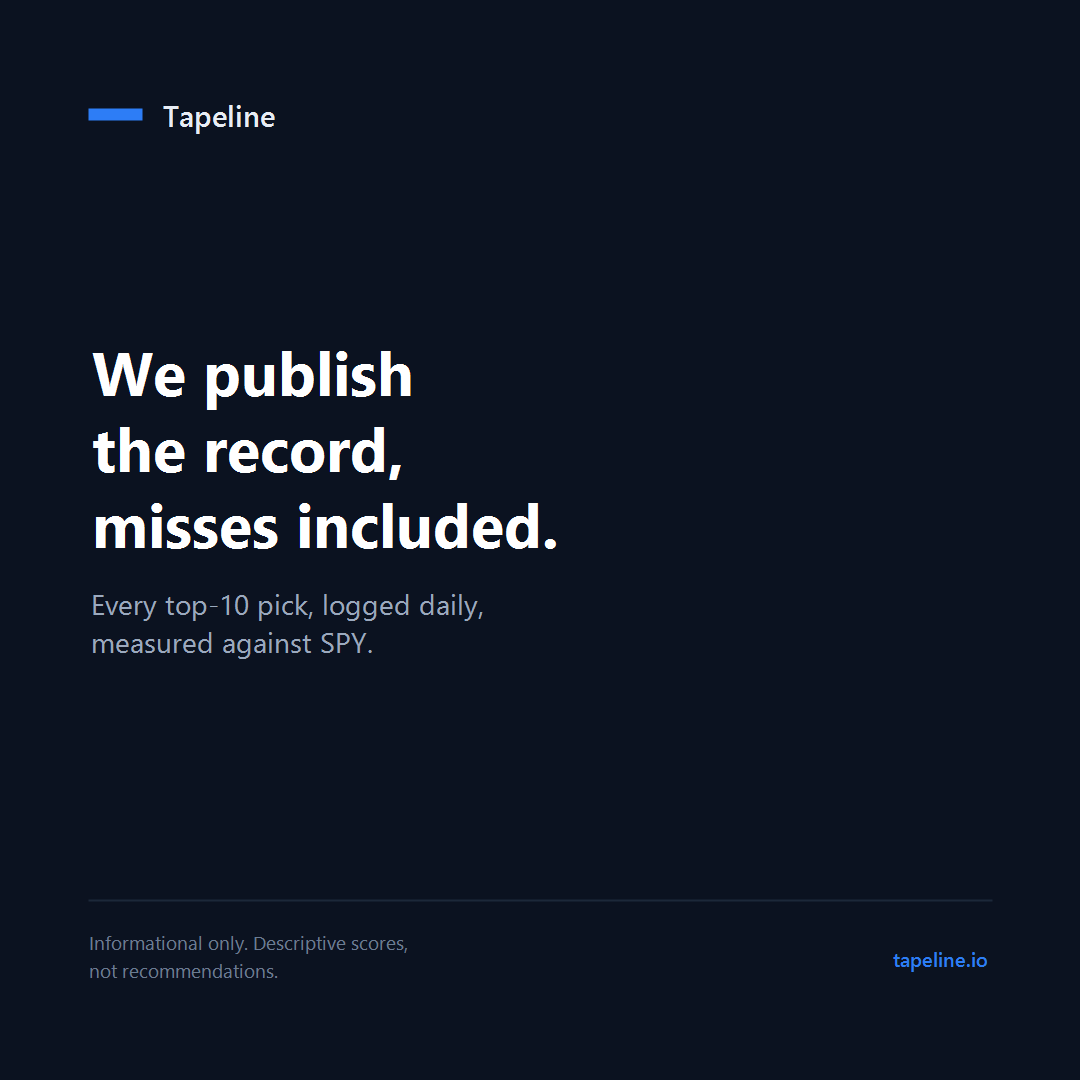
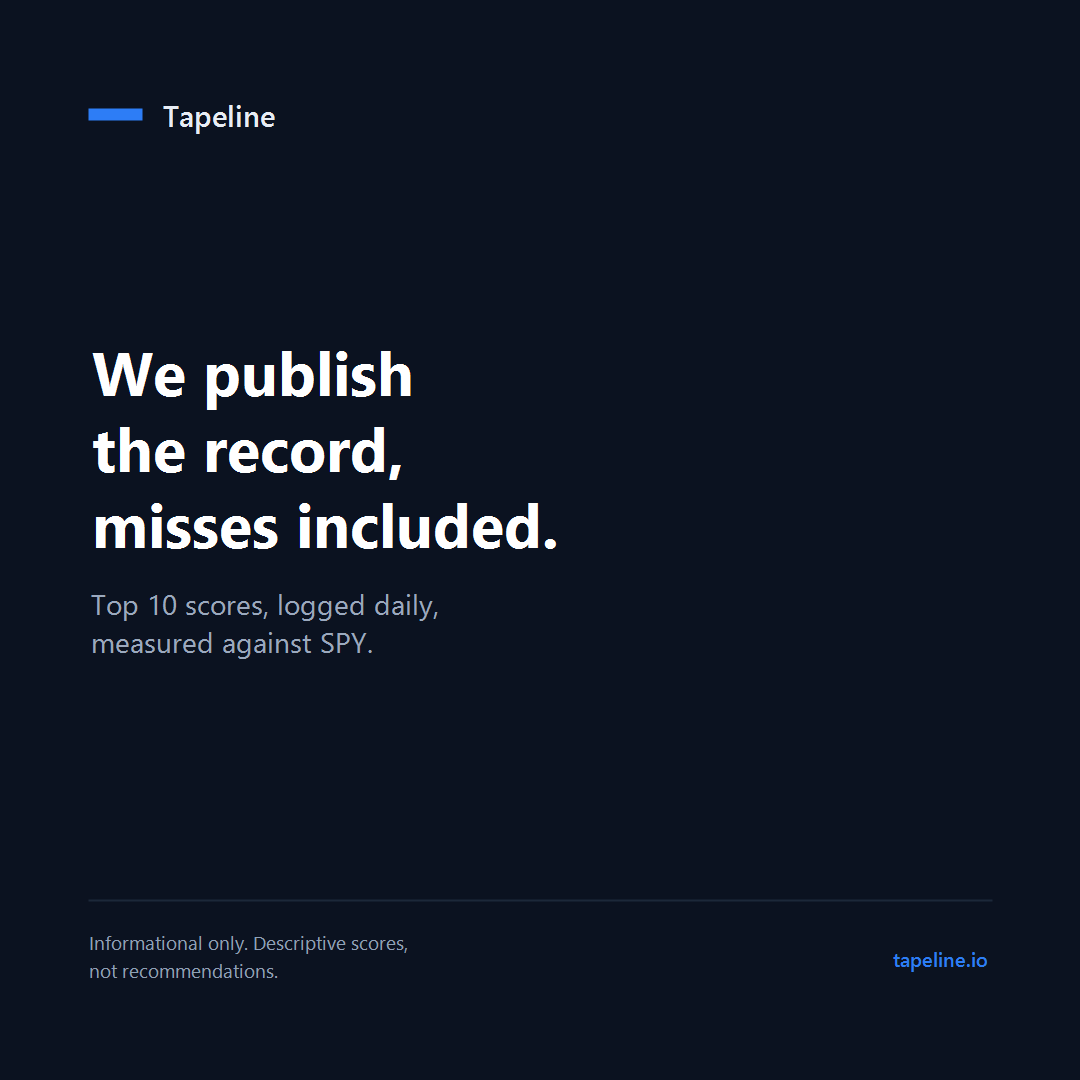
fix(ads): a banned token was live in concept C; close the two gaps that allowed it
A 99-agent audit of the live burst found that concept C's artwork read "Every
top-10 pick, logged daily, measured against SPY." META_SAAS_ADS_PLAYBOOK.md bans
that token outright: Meta's finance classifier pattern-matches "picks" to
stock-tip services, so it is "score(s)" everywhere. It ran for three days on a
Financial Products and Services account that had just come off a security
checkpoint.

C was also the lowest-delivery ad by a wide margin -- A$1.06 and 60 impressions,
CPM A$17.67 against A$85-110 on its siblings. That pattern is consistent with
classifier suppression rather than message failure, which means C's arm was never
a message read at all. C is paused in Ads Manager, the string is now "Top 10
scores, logged daily, measured against SPY.", and all nine assets are regenerated.

TWO GAPS LET IT THROUGH, AND BOTH ARE NOW CLOSED.

First, the linter never had the rule -- the ban lived only in playbook prose. I
verified this rather than assumed it by running the linter on the exact offending
string: zero findings. So "the ad copy passed the linter" was true and beside the
point.

Second, the words burned into the images were never linted at all. Only primary
text, headline and description went through it. The subtitle strings live in the
PowerShell generators, and CI's include globs exclude docs/.

Rule 10 ad-trading-vocabulary catches picks, calls, stock tips and hot stocks.
It is PATH-SCOPED to the ad-creative directory on purpose: "picks" is legitimate
[…]

Changed region(s): [[0.0917, 0.8556, 0.3667, 0.9167], [0.0611, 0.55, 0.4583, 0.5806]]

diff --git a/docs/META_BURST_BUILD.md b/docs/META_BURST_BUILD.md
@@ -623,3 +623,139 @@ deployed** — the event fires on a real signup, not on page load.
 **Still founder-only, and now genuinely the last thing:** registering a Meta App and generating a
 System User token, then `.\scripts\meta-capi-golive.ps1 -TestEventCode <CODE>` (after
 `fly auth login`). Claude does not create developer apps or generate/handle access tokens.
+
+---
+
+## 16. Deep-dive audit — 2026-08-29
+
+A 99-agent workflow audited the live burst against `META_SAAS_ADS_PLAYBOOK.md`,
+`PAID_ADS_METRICS_BIBLE.md` and this file, then researched Meta advertising for retail-trading
+SaaS under Special Ad Category. 92 findings were adversarially verified against Tapeline's
+compliance constraints; **25 survived, 67 were rejected** — several of the rejected ones were
+claims made earlier in the same session.
+
+### A hard-banned token was live, and is now fixed
+
+Concept C's artwork read **"Every top-10 pick, logged daily, measured against SPY."**
+`META_SAAS_ADS_PLAYBOOK.md` bans that token explicitly: *"no 'picks' token in ad copy — Meta's
+finance classifier pattern-matches it to stock-tip services, so it is 'score(s)' everywhere."*
+It ran for three days on an FPS account that had just come off a security checkpoint.
+
+C was also the lowest-delivery ad by a wide margin (A$1.06 / 60 impressions, CPM A$17.67 against
+A$85–110 on its siblings) — consistent with **classifier suppression rather than message failure**,
+which means C's arm was never a message read at all.
+
+**Actions taken:** ad C paused in Ads Manager; the string changed to *"Top 10 scores, logged daily,
+measured against SPY."* in all three generators; all nine assets regenerated.
+
+### How it got through — two gaps, both now closed
+
+1. **The linter never had the rule.** The ban lived only in playbook prose. Verified by running
+   the linter on the exact offending string: 0 findings. So "the ad copy passed the linter" was
+   true and beside the point.
+2. **The on-image words were never linted at all.** Only primary text, headline and description
+   went through it; the subtitle strings live in the PowerShell generators, and CI's include globs
+   exclude `docs/`.
+
+Rule 10 `ad-trading-vocabulary` now catches `picks`, `calls`, `stock tips`, `hot stocks` — and is
+**path-scoped to the ad-creative directory**, because "picks" is legitimate product vocabulary
+elsewhere (`/daily-picks` is a real public route, and the word appears across the scanner,
+watchlist and about pages). A repo-wide ban would be wrong and would fail CI everywhere.
+
+### A reproducibility bug in the committed generators
+
+`$out` was a hardcoded machine-specific scratchpad path, so regeneration silently wrote somewhere
+else and the committed PNGs went stale while the source looked correct. Caught only because a
+regenerated image still showed the old text. Now `$out = $PSScriptRoot`.
+
+Also fixed while in there: the footer ran ~4.35:1 contrast on the navy (under WCAG AA 4.5:1) and is
+now `#8FA0B6`; and on the 9:16 assets the compliance line sat inside the Stories bottom safe-zone
+exclusion, where platform UI can overlay it — moved up ~130px.
+
+### Corrections to claims made earlier in this session
+
+- **"Delivery is at 39% of budget"** — the denominator counted review days as delivery days.
+  Recomputed on actual delivery days it is **~59–78%**. Underdelivery is real but materially less
+  severe than was reported.
+- **"Meta has picked a favourite (B)"** — spend share is not a performance metric. No CTR was
+  cited, and the ranking **inverts by measure**: B/A/C by dollars, B/C/A by impressions. The
+  playbook predicted concentration in advance and said *record it, don't rebalance*.
+- **The A$78 blended CPM is not diagnostic** at 376 impressions (minimum readable sample
+  ~5,000–10,000; per-ad CPMs span 6x; the applicable finance median is US$28.44, so ~1.8x not 2–3x).
+
+### The structural finding: this ad set cannot exit learning
+
+Smart bidding wants ~50 conversions per ad set per week. At A$25/day that is **arithmetically
+unreachable** — a genuinely registration-optimised flight needs roughly **A$107–286/day**, which at
+0 payers and ~4x over the CAC ceiling is not defensible spend. This is not a patience problem and
+will not resolve by waiting.
+
+Consequences to accept now, before the verdict date, rather than rationalise later:
+
+- **The three-way ranking — the burst's sole pre-registered deliverable — will not be produced.**
+  A and C will not clear the per-ad evaluation floor under any plausible pacing. At verdict time
+  this reads *"the instrument did not run"*, **not** *"B beat A and C"*.
+- **Kill criterion 3 (cost per registration after 100+ clicks) will likely never become
+  evaluable.** Report it as *insufficient data*, not *passed*. What stays enforceable is the A$350
+  cap and the structural stop.
+
+**Confirmed 29 Aug:** the Results column reads `—` for all three ads. `CompleteRegistration` has
+never reached Meta. Every impression bought while that is true is bought blind.
+
+### Constraints discovered that bind all future flights
+
+- **Lookalikes are permanently unavailable under FPS.** Special Ad Audiences were fully deprecated
+  in 2022 with no replacement. Even at 100+ payers, the customer list cannot become Meta
+  prospecting reach while the campaign sits in FPS. Any source saying otherwise is stale.
+- **Meta lead forms are closed** — financial-product ads may not request PII in-platform.
+- **A "DM us a ticker" hook is closed** — US investment-product ads may not prompt direct-message
+  interaction, despite the inbox bot having a `ticker_score` template. The funnel stays
+  click-to-site.
+- **Location exclusions are not permitted under SAC at all**, so US-only *inclusion* is the only
+  mechanism protecting the Australia constraint. The docs treat the eight-country exclusion list as
+  a legal gate; it may not be enterable. Reconcile before the next flight.
+- **Never reframe the ads as non-financial to escape SAC.** The FPS exemptions cover bank/insurer
+  brand ads, loan-management education, news articles and mention-only ads. A paid stock scanner
+  linking to signup fits none. Mis-declaration risks a retroactive evasion flag.
+
+### Cold vs retargeting — the live three
+
+| Ad | Verdict |
+|---|---|
+| **A — Sunday-night spreadsheet** | **Cold-appropriate.** Problem-recognition hook on an existing behaviour; asserts nothing about the reader, so it is clean under Meta's Personal Attributes standard. |
+| **B — $0 today** | **An objection-handler, not a cold hook** — it answers a question a stranger has not yet asked. Highest *policy* value of the three. Best used in retargeting and as landing-page copy. Its delivery share is not evidence it is the best cold message. |
+| **C — We publish the record** | **Cold-appropriate in concept**, but the live execution carried the banned token and its arm is uninterpretable. Keep the angle, rebuild the asset. |
+
+**Live risk on B to carry into any reuse:** *"$0 today"* alone is functionally "free trial, no
+card" — the banned claim. Advantage+ auto-crops and can truncate, so the card-and-charge-date
+clause must live in the primary text, not only baked into the image.
+
+### Creative direction for the next flight
+
+The three live ads are **one visual concept with three headlines** — same navy, same layout, same
+rule, same footer. Concept diversity beats variation volume, so the next flight must vary the
+*visual concept*, not just the words. In priority order:
+
+1. **Real-UI static** — the scanner surface itself. Text-on-colour is static's weakest variant.
+2. **Screen recording** of the scanner and methodology surface. Descriptive numerals only.
+   **Review the capture so the 6-factor weights cannot be derived** — factor names are public, the
+   weights are not.
+3. **Scorecard-artifact static** — crop the per-day entries *including misses*, and **exclude the
+   summary-stat strip**. The record's existence goes in the ad; the numbers stay on the page.
+
+**Banned forever in future variants** (Meta Personal Attributes — implying knowledge of the
+reader's financial state, including indirect you/your phrasing): *"Tired of losing money?"*,
+*"Still guessing?"*, *"Bad at picking stocks?"*, *"Portfolio down?"*. This costs nothing — the
+descriptive-only rule already forbids that voice.
+
+### Rejected on compliance grounds — do not revive
+
+- A compressed *"$0 today. Start your 14-day trial."* headline — implies card-free by omission.
+- Adding *"Past results do not indicate future results"* to the statics — a past-performance
+  disclaimer presupposes a performance representation and imports the exact frame the rules exist
+  to keep out. Most tempting on C, most dangerous there.
+- Hit-rate / median-alpha / vs-SPY **figures** in the ad or the landing H1 / title / OG card.
+- Rewriting the banned line as *"every call"* — "call" is prescriptive trading vocabulary. Rule 10
+  now catches it too.
+- Uploading the 25 users as a customer-list audience — exceeds the current privacy disclosure.
+- Widening geo, UGC testimonials, or switching the optimisation event mid-flight.
